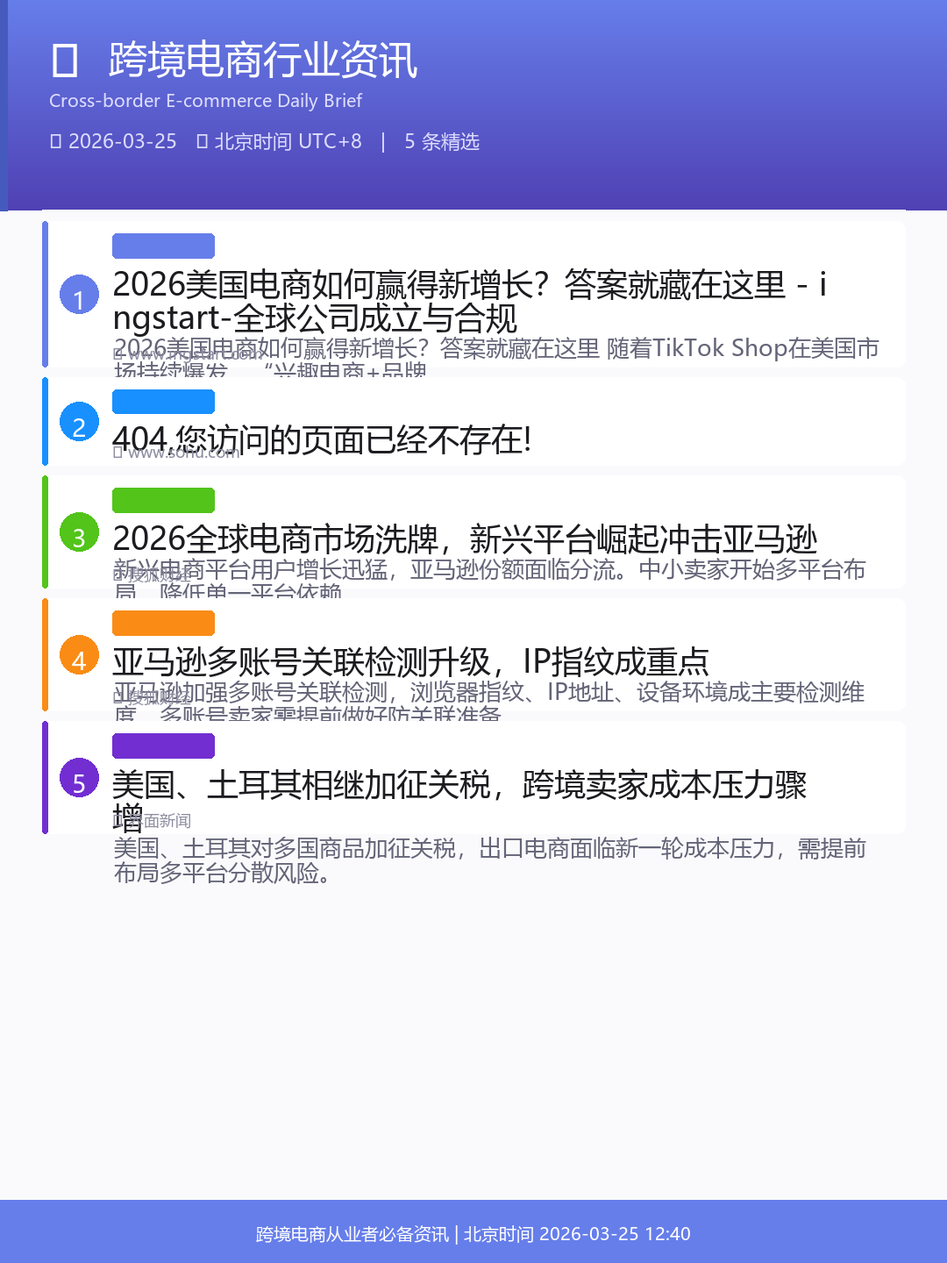
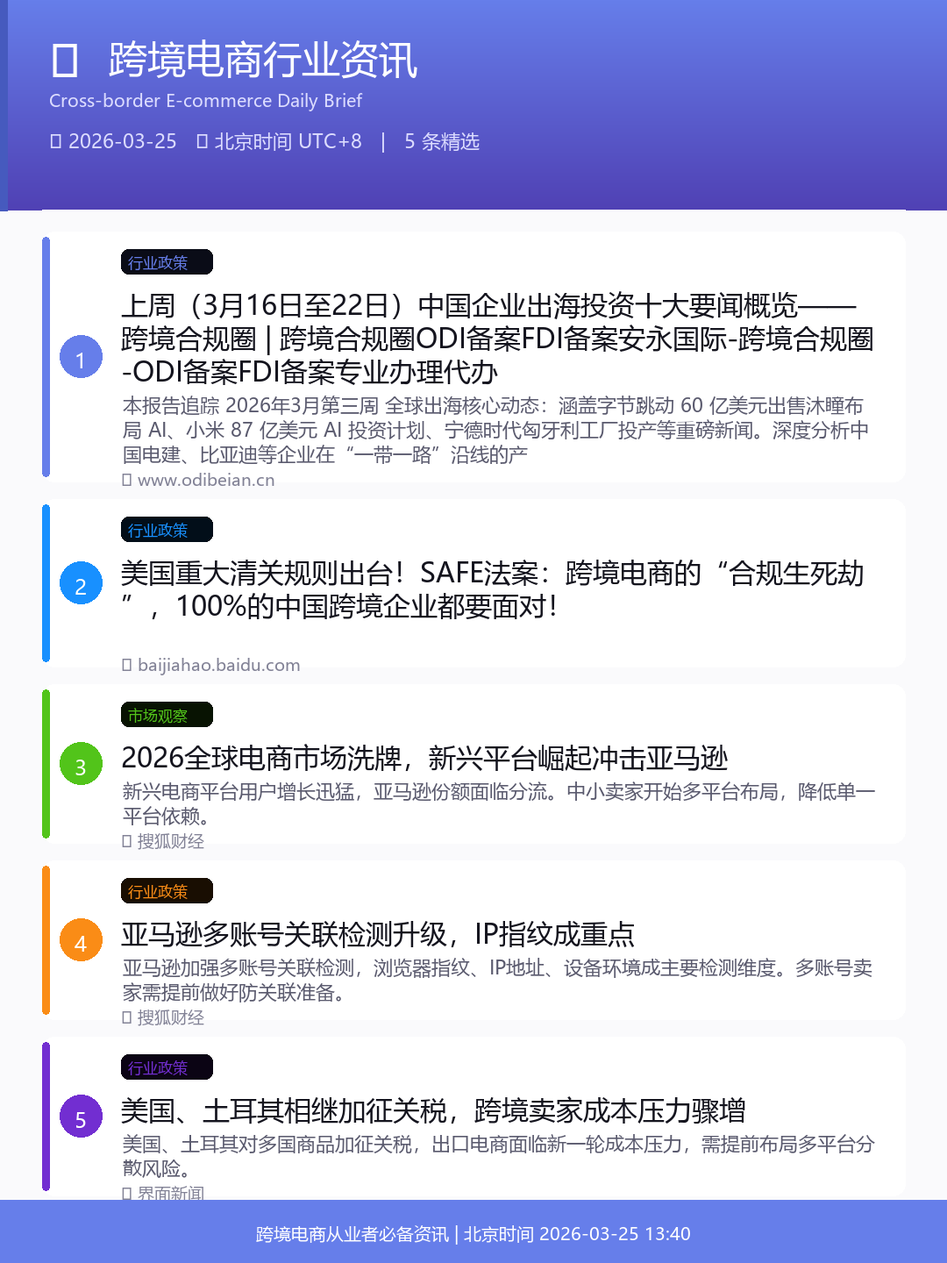
update: 行业简报 2026-03-25 13:40 - v5双版

Changed region(s): [[0.0306, 0.1875, 0.9472, 0.9688]]

diff --git a/资讯/index.html b/资讯/index.html
@@ -2,162 +2,148 @@
 <html>
 <head>
 <meta charset="UTF-8">
-<meta name="viewport" content="width=device-width, initial-scale=1.0">
-<title>📰 行业资讯</title>
+<meta name="viewport" content="width=device-width,initial-scale=1.0">
+<title>行业资讯</title>
 <style>
-  * { margin: 0; padding: 0; box-sizing: border-box; }
-  body { font-family: -apple-system, BlinkMacSystemFont, 'Segoe UI', Roboto, sans-serif; background: #f0f2f5; }
-  .header { background: linear-gradient(135deg, #667eea 0%, #764ba2 100%); color: white; padding: 20px 40px; display: flex; justify-content: space-between; align-items: center; flex-wrap: wrap; gap: 10px; }
-  .header h1 { font-size: 22px; }
-  .header a { color: white; text-decoration: none; font-size: 14px; }
-  .header .last-check { font-size: 12px; opacity: 0.8; }
-  .container { max-width: 1100px; margin: 0 auto; padding: 30px 40px; }
-
-  /* 简报图片卡片 */
-  .poster-card { margin-bottom: 25px; }
-  .poster-card-inner { background: white; border-radius: 16px; padding: 24px 28px; box-shadow: 0 4px 16px rgba(0,0,0,0.1); display: flex; align-items: center; gap: 20px; cursor: pointer; border: 2px solid transparent; transition: all 0.25s; }
-  .poster-card-inner:hover { border-color: #667eea; transform: translateY(-3px); box-shadow: 0 10px 30px rgba(102,126,234,0.2); }
-  .poster-icon { width: 64px; height: 64px; background: linear-gradient(135deg, #667eea, #764ba2); border-radius: 14px; display: flex; align-items: center; justify-content: center; font-size: 30px; flex-shrink: 0; }
-  .poster-info { flex: 1; }
-  .poster-title { font-size: 17px; font-weight: 700; color: #222; margin-bottom: 5px; }
-  .poster-desc { font-size: 13px; color: #666; }
-  .poster-right { display: flex; align-items: center; gap: 15px; }
-  .poster-tag { background: linear-gradient(135deg, #667eea, #764ba2); color: white; font-size: 12px; padding: 6px 14px; border-radius: 20px; white-space: nowrap; font-weight: 600; }
-  .poster-arrow { font-size: 22px; color: #667eea; }
-
-  /* 简报正文 */
-  .brief-card { background: white; border-radius: 16px; padding: 28px 32px; box-shadow: 0 4px 16px rgba(0,0,0,0.08); margin-bottom: 25px; }
-  .brief-header { display: flex; justify-content: space-between; align-items: center; margin-bottom: 24px; padding-bottom: 16px; border-bottom: 2px solid #f0f0f5; flex-wrap: wrap; gap: 8px; }
-  .brief-header-title { font-size: 18px; font-weight: 700; color: #222; }
-  .brief-header-meta { font-size: 12px; color: #999; }
-  .brief-header-badge { background: #52c41a; color: white; font-size: 11px; padding: 3px 10px; border-radius: 10px; margin-left: 10px; }
-  .brief-item { display: flex; gap: 16px; padding: 18px 0; border-bottom: 1px solid #f5f5f5; }
-  .brief-item:last-child { border-bottom: none; padding-bottom: 0; }
-  .brief-num { width: 28px; height: 28px; background: linear-gradient(135deg, #667eea, #764ba2); color: white; border-radius: 50%; font-size: 13px; font-weight: 700; display: flex; align-items: center; justify-content: center; flex-shrink: 0; margin-top: 3px; }
-  .brief-content { flex: 1; }
-  .brief-content .tag { display: inline-block; padding: 2px 8px; border-radius: 4px; font-size: 11px; margin-bottom: 6px; }
-  .brief-content .tag-blue { background: #e6f7ff; color: #1890ff; }
-  .brief-content .tag-green { background: #f6ffed; color: #52c41a; }
-  .brief-content .tag-orange { background: #fff7e6; color: #fa8c16; }
-  .brief-content .tag-purple { background: #f9f0ff; color: #722ed1; }
-  .brief-title { font-size: 15px; font-weight: 600; color: #222; margin-bottom: 6px; line-height: 1.5; }
-  .brief-title a { color: #222; text-decoration: none; }
-  .brief-title a:hover { color: #667eea; }
-  .brief-desc { font-size: 13px; color: #555; line-height: 1.7; margin-bottom: 6px; }
-  .brief-source { font-size: 12px; color: #999; }
-  .brief-link a { color: #667eea; text-decoration: none; }
-  .brief-link a:hover { text-decoration: underline; }
-
-  /* 弹窗 */
-  .modal-overlay { display: none; position: fixed; top: 0; left: 0; right: 0; bottom: 0; background: rgba(0,0,0,0.88); z-index: 9999; align-items: center; justify-content: center; padding: 20px; }
-  .modal-overlay.show { display: flex; }
-  .modal-close { position: fixed; top: 20px; right: 30px; color: white; font-size: 32px; cursor: pointer; z-index: 10001; background: rgba(255,255,255,0.15); width: 44px; height: 44px; border-radius: 50%; text-align: center; line-height: 44px; }
-  .modal-close:hover { background: rgba(255,255,255,0.3); }
-  .modal-img-wrap { max-width: 95vw; max-height: 90vh; display: flex; align-items: center; justify-content: center; }
-  .modal-img-wrap img { max-width: 100%; max-height: 88vh; border-radius: 12px; box-shadow: 0 24px 80px rgba(0,0,0,0.6); }
-  .modal-save { position: fixed; bottom: 30px; right: 30px; z-index: 10001; }
-  .modal-save a { display: inline-block; background: white; color: #667eea; padding: 12px 24px; border-radius: 25px; font-size: 14px; font-weight: 700; text-decoration: none; box-shadow: 0 4px 16px rgba(0,0,0,0.3); }
-  .modal-save a:hover { transform: scale(1.05); }
-  .modal-tip { position: fixed; bottom: 30px; left: 50%; transform: translateX(-50%); color: rgba(255,255,255,0.5); font-size: 12px; z-index: 10001; }
+*{margin:0;padding:0;box-sizing:border-box}
+body{font-family:-apple-system,BlinkMacSystemFont,"Segoe UI",Roboto,sans-serif;background:#f0f2f5;color:#1a1a2e;line-height:1.6}
+a{color:#667eea;text-decoration:none}
+.pk{position:fixed;top:16px;right:16px;z-index:200;background:linear-gradient(135deg,#667eea,#764ba2);color:#fff;border:none;padding:10px 18px;border-radius:25px;font-size:13px;font-weight:700;cursor:pointer;box-shadow:0 4px 16px rgba(102,126,234,.35)}
+.pk:hover{transform:scale(1.04)}
+.hdr{background:linear-gradient(135deg,#667eea 0%,#764ba2 100%);padding:20px 24px 16px;color:#fff}
+.hdr h1{font-size:20px;font-weight:800;letter-spacing:-.5px}
+.hdr p{font-size:12px;color:rgba(255,255,255,.75);margin-top:2px}
+.hdr .tm{font-size:11px;color:rgba(255,255,255,.6);margin-top:4px}
+.bar{display:flex;gap:8px;padding:12px 16px;background:#fff;border-bottom:1px solid #e8e9f0;overflow-x:auto;white-space:nowrap}
+.bar a{display:inline-block;padding:6px 14px;background:#f4f5f9;border-radius:20px;font-size:12px;font-weight:600;color:#4a4a6a;transition:all .2s}
+.bar a:hover,.bar a.active{background:#667eea;color:#fff}
+.main{max-width:720px;margin:0 auto;padding:12px 16px 80px}
+.sec{margin-bottom:16px}
+.sec-h{font-size:12px;font-weight:700;color:#9090a0;text-transform:uppercase;letter-spacing:.5px;padding:8px 0 6px;border-bottom:1px solid #e8e9f0;margin-bottom:8px;display:flex;align-items:center;gap:6px}
+.sec-h span{background:#667eea;color:#fff;font-size:10px;padding:1px 6px;border-radius:8px}
+.curB{background:#22c55e!important}
+.nl{list-style:none;background:#fff;border-radius:12px;overflow:hidden;box-shadow:0 1px 3px rgba(0,0,0,.06)}
+.ni{display:flex;gap:14px;padding:14px 16px;border-bottom:1px solid #f0f2f5;align-items:flex-start}
+.ni:last-child{border-bottom:none}
+.nb{width:26px;height:26px;background:linear-gradient(135deg,#667eea,#764ba2);color:#fff;border-radius:50%;font-size:11px;font-weight:700;display:flex;align-items:center;justify-content:center;flex-shrink:0;margin-top:2px}
+.nc{flex:1;min-width:0}
+.nm{margin-bottom:4px}
+.tag{display:inline-block;padding:1px 8px;border-radius:6px;font-size:10px;font-weight:700}
+.tagR{background:#fff1f0;color:#cf1322}
+.tagO{background:#fff7e6;color:#d46b08}
+.tagB{background:#e6f7ff;color:#0958d9}
+.tagV{background:#f9f0ff;color:#722ed1}
+.tagG{background:#f6ffed;color:#389e0d}
+.tagGr{background:#f5f5f5;color:#595959}
+.nt{font-size:14px;font-weight:600;color:#1a1a2e;line-height:1.4;margin-bottom:3px}
+.nt a{color:inherit}
+.nd{font-size:12px;color:#6b6b80;line-height:1.5}
+.ns{font-size:11px;color:#9090a0;margin-top:4px}
+.nlk{color:#667eea;font-weight:600}
+.tl{width:100%;border-collapse:collapse;background:#fff;border-radius:12px;overflow:hidden;box-shadow:0 1px 3px rgba(0,0,0,.06)}
+.tl th{font-size:11px;color:#9090a0;font-weight:600;text-align:left;padding:10px 12px;background:#f8f9fb;border-bottom:1px solid #e8e9f0;text-transform:uppercase}
+.tl td{padding:10px 12px;font-size:12px;border-bottom:1px solid #f0f2f5;vertical-align:middle}
+.tl tr:last-child td{border-bottom:none}
+.tc{color:#667eea;font-weight:700;white-space:nowrap}
+.ti{color:#6b6b80;max-width:180px;overflow:hidden;text-overflow:ellipsis;white-space:nowrap}
+.bv{padding:5px 12px;background:#667eea;color:#fff;border:none;border-radius:8px;font-size:11px;font-weight:600;cursor:pointer}
+.bv:hover{background:#764ba2}
+.bcur{background:#22c55e}
+.bcur:hover{background:#16a34a}
+.empty{text-align:center;padding:28px;color:#9090a0;font-size:13px}
+.dg{margin-bottom:20px}
+.dl{font-size:13px;font-weight:700;color:#1a1a2e;padding:8px 0 6px;border-bottom:2px solid #667eea;margin-bottom:6px}
+.dg .tl{border-radius:8px}
+.ov{position:fixed;top:0;left:0;right:0;bottom:0;background:rgba(0,0,0,.6);z-index:300;display:none;align-items:center;justify-content:center;padding:16px}
+.ov.on{display:flex}
+.ovbox{background:#fff;border-radius:16px;width:100%;max-width:680px;max-height:85vh;overflow-y:auto;box-shadow:0 24px 80px rgba(0,0,0,.25)}
+.ovhd{display:flex;justify-content:space-between;align-items:center;padding:16px 20px;border-bottom:1px solid #e8e9f0;position:sticky;top:0;background:#fff;border-radius:16px 16px 0 0}
+.ovtt{font-size:15px;font-weight:700;color:#1a1a2e}
+.ovcls{padding:6px 14px;background:#f4f5f9;border:none;border-radius:8px;font-size:12px;font-weight:600;cursor:pointer}
+.ovbd{padding:16px}
+.dlbtn{position:fixed;bottom:24px;right:16px;background:linear-gradient(135deg,#667eea,#764ba2);color:#fff;padding:12px 20px;border-radius:25px;font-size:13px;font-weight:700;text-decoration:none;box-shadow:0 4px 20px rgba(102,126,234,.4);z-index:100;display:flex;align-items:center;gap:6px}
+.dlbtn:hover{transform:scale(1.04)}
 </style>
 </head>
 <body>
-<div class="header">
+<button class="pk" onclick="document.getElementById('ov').classList.toggle('on')">🖼 预览图片</button>
+
+<div class="hdr">
   <h1>📰 行业资讯</h1>
-  <div>
-    <span class="last-check">🕒 北京时间 (UTC+8) | 2026-03-25 13:02</span>
-    <a href="../index.html" style="margin-left:15px;">← 返回首页</a>
-  </div>
+  <p>跨境电商每日简报 · 精选 5 条</p>
+  <div class="tm">🕒 2026-03-25 13:40 · 北京时间 UTC+8</div>
 </div>
-<div class="container">
-  <!-- 简报图片卡片 -->
-  <div class="poster-card">
-    <div class="poster-card-inner" onclick="openPosterModal()">
-      <div class="poster-icon">🖼</div>
-      <div class="poster-info">
-        <div class="poster-title">📰 今日简报图片</div>
-        <div class="poster-desc">点击预览完整简报，支持右键/长按保存图片</div>
-      </div>
-      <div class="poster-right">
-        <span class="poster-tag">🕒 2026-03-25</span>
-        <span class="poster-arrow">→</span>
-      </div>
+
+<div class="bar">
+  <a href="#" class="active" id="tabA0" onclick="switchTab(0);return false">📋 当前版本</a>
+  <a href="#" id="tabA1" onclick="switchTab(1);return false">🕐 今日历史</a>
+  <a href="历史.html">📁 历史存档</a>
+</div>
+
+<div class="main">
+  <div id="tab0">
+    <div class="sec">
+      <div class="sec-h">🖼 对外简报 <span>朋友圈</span> <span class="curB">13:00</span></div>
+      <ul class="nl"><li class="ni"><div class="nb">1</div><div class="nc"><div class="nm"><span class="tag tagR">行业政策</span></div><div class="nt"><a href="https://www.odibeian.cn/market-intelligence-china-outbound-investment-weekly-march-2026/" target="_blank">上周（3月16日至22日）中国企业出海投资十大要闻概览——跨境合规圈 | 跨境合规圈ODI备案FDI备案安永国际-跨境合规圈-ODI备案FDI备案专业办理代办</a></div><div class="nd">本报告追踪 2026年3月第三周 全球出海核心动态：涵盖字节跳动 60 亿美元出售沐瞳布局 AI、小米 87 亿美元 AI 投资计划、宁德时代匈牙利工厂投产等重磅新闻。深度分析中国电建、比亚迪等企业在“一带一路”沿线的产能与品牌出海路径，并为投资者提供 ODI 备案与跨境合规的实务闭环建议。</div></div></li><li class="ni"><div class="nb">2</div><div class="nc"><div class="nm"><span class="tag tagR">行业政策</span></div><div class="nt"><a href="https://baijiahao.baidu.com/s?id=1859959027147065180" target="_blank">美国重大清关规则出台！SAFE法案：跨境电商的“合规生死劫”，100%的中国跨境企业都要面对！</a></div><div class="nd"></div></div></li><li class="ni"><div class="nb">3</div><div class="nc"><div class="nm"><span class="tag tagO">市场观察</span></div><div class="nt"><a href="https://www.sohu.com/a/996154720_122656378" target="_blank">2026全球电商市场洗牌，新兴平台崛起冲击亚马逊</a></div><div class="nd">新兴电商平台用户增长迅猛，亚马逊份额面临分流。中小卖家开始多平台布局，降低单一平台依赖。</div></div></li></ul>
+    </div>
+    <div class="sec">
+      <div class="sec-h">📊 对内全模块 <span>5条</span></div>
+      <ul class="nl"><li class="ni"><div class="nb">1</div><div class="nc"><div class="nm"><span class="tag tagR">行业政策</span></div><div class="nt"><a href="https://www.odibeian.cn/market-intelligence-china-outbound-investment-weekly-march-2026/" target="_blank">上周（3月16日至22日）中国企业出海投资十大要闻概览——跨境合规圈 | 跨境合规圈ODI备案FDI备案安永国际-跨境合规圈-ODI备案FDI备案专业办理代办</a></div><div class="nd">本报告追踪 2026年3月第三周 全球出海核心动态：涵盖字节跳动 60 亿美元出售沐瞳布局 AI、小米 87 亿美元 AI 投资计划、宁德时代匈牙利工厂投产等重磅新闻。深度分析中国电建、比亚迪等企业在“一带一路”沿线的产能与品牌出海路径，并为投资者提供 ODI 备案与跨境合规的实务闭环建议。</div><div class="ns">&#128214; <a href="https://www.odibeian.cn/market-intelligence-china-outbound-investment-weekly-march-2026/" target="_blank">www.odibeian.cn</a> <a class="nlk" href="https://www.odibeian.cn/market-intelligence-china-outbound-investment-weekly-march-2026/" target="_blank">&#8594;</a></div></div></li><li class="ni"><div class="nb">2</div><div class="nc"><div class="nm"><span class="tag tagR">行业政策</span></div><div class="nt"><a href="https://baijiahao.baidu.com/s?id=1859959027147065180" target="_blank">美国重大清关规则出台！SAFE法案：跨境电商的“合规生死劫”，100%的中国跨境企业都要面对！</a></div><div class="nd"></div><div class="ns">&#128214; <a href="https://baijiahao.baidu.com/s?id=1859959027147065180" target="_blank">baijiahao.baidu.com</a> <a class="nlk" href="https://baijiahao.baidu.com/s?id=1859959027147065180" target="_blank">&#8594;</a></div></div></li><li class="ni"><div class="nb">3</div><div class="nc"><div class="nm"><span class="tag tagO">市场观察</span></div><div class="nt"><a href="https://www.sohu.com/a/996154720_122656378" target="_blank">2026全球电商市场洗牌，新兴平台崛起冲击亚马逊</a></div><div class="nd">新兴电商平台用户增长迅猛，亚马逊份额面临分流。中小卖家开始多平台布局，降低单一平台依赖。</div><div class="ns">&#128214; <a href="https://www.sohu.com/a/996154720_122656378" target="_blank">搜狐财经</a> <a class="nlk" href="https://www.sohu.com/a/996154720_122656378" target="_blank">&#8594;</a></div></div></li><li class="ni"><div class="nb">4</div><div class="nc"><div class="nm"><span class="tag tagR">行业政策</span></div><div class="nt"><a href="https://www.sohu.com/a/998377667_120987862" target="_blank">亚马逊多账号关联检测升级，IP指纹成重点</a></div><div class="nd">亚马逊加强多账号关联检测，浏览器指纹、IP地址、设备环境成主要检测维度。多账号卖家需提前做好防关联准备。</div><div class="ns">&#128214; <a href="https://www.sohu.com/a/998377667_120987862" target="_blank">搜狐财经</a> <a class="nlk" href="https://www.sohu.com/a/998377667_120987862" target="_blank">&#8594;</a></div></div></li><li class="ni"><div class="nb">5</div><div class="nc"><div class="nm"><span class="tag tagR">行业政策</span></div><div class="nt"><a href="https://www.jiemian.com/article/14129901.html" target="_blank">美国、土耳其相继加征关税，跨境卖家成本压力骤增</a></div><div class="nd">美国、土耳其对多国商品加征关税，出口电商面临新一轮成本压力，需提前布局多平台分散风险。</div><div class="ns">&#128214; <a href="https://www.jiemian.com/article/14129901.html" target="_blank">界面新闻</a> <a class="nlk" href="https://www.jiemian.com/article/14129901.html" target="_blank">&#8594;</a></div></div></li></ul>
     </div>
   </div>
-
-  <!-- 简报正文（5条合并） -->
-  <div class="brief-card">
-    <div class="brief-header">
-      <div class="brief-header-title">📋 今日要闻 · 2026-03-25 <span class="brief-header-badge">共 5 条</span></div>
-      <div class="brief-header-meta">🕒 更新于 2026-03-25 13:02 · 每整点自动更新</div>
+  <div id="tab1" style="display:none">
+    <div class="sec">
+      <div class="sec-h">🕐 今日历史版本 <span>2026-03-25</span></div>
+      <table class="tl"><thead><tr><th>时间</th><th>条数</th><th>首条</th><th></th></tr></thead><tbody><tr><td class="tc"><em class="cur">13:00</em></td><td class="ti">8条</td><td class="ti">上周（3月16日至22日）中国企业出海投资十大要闻概览——跨...</td><td><button class="bv" onclick="showSnap('13')">当前</button></td></tr><tr><td class="tc"><b>12:00</b></td><td class="ti">8条</td><td class="ti">2026美国电商如何赢得新增长？答案就藏在这里 - ings...</td><td><button class="bv" onclick="showSnap('12')">查看</button></td></tr></tbody></table>
     </div>
-    
-      <div class="brief-item">
-        <div class="brief-num">1</div>
-        <div class="brief-content">
-          <span class="tag tag-green">社媒电商</span>
-          <div class="brief-title"><a href="https://www.sohu.com/a/998791727_122656378" target="_blank">2026年TikTok Shop大促掘金指南：从报名选品到复盘流量，商家必读的实战攻略_平台_活动_商品</a></div>
-          <div class="brief-desc">本文将从科普角度，结合2026年最新的平台动态，为你全方位拆解TikTok Shop的大促活动、攻略、补贴、报名、选品、玩法、准备、流量及复盘等核心环节，无论你是初入局的新手，还是经验丰富的自运营（POP）…</div>
-          <div class="brief-source">📌 www.sohu.com <span class="brief-link">→ <a href="https://www.sohu.com/a/998791727_122656378" target="_blank">阅读原文</a></span></div>
-        </div>
-      </div>
-      <div class="brief-item">
-        <div class="brief-num">2</div>
-        <div class="brief-content">
-          <span class="tag tag-green">社媒电商</span>
-          <div class="brief-title"><a href="https://www.sohu.com/a/998337896_122656378" target="_blank">2026年TikTok Shop入驻全解析：从流程到补贴，一篇看懂“开店的正确姿势”_托管_模式_运营</a></div>
-          <div class="brief-desc">然而，面对多元化的站点（如欧盟、日本、墨西哥新站）和多层次的经营模式（POP自运营、全托管、品牌/本地托管），许多新手卖家往往感到困惑：现在入驻到底难不难？特别注意的是，个体工商户目前可以入驻东南亚的POP…</div>
-          <div class="brief-source">📌 www.sohu.com <span class="brief-link">→ <a href="https://www.sohu.com/a/998337896_122656378" target="_blank">阅读原文</a></span></div>
-        </div>
-      </div>
-      <div class="brief-item">
-        <div class="brief-num">3</div>
-        <div class="brief-content">
-          <span class="tag tag-blue">电商平台</span>
-          <div class="brief-title"><a href="https://www.163.com/dy/article/IP7C9S5I0538AT1N.html" target="_blank">《2023跨境电商行业年度报告》重磅发布！|卖家|黑五|亚马逊|电商平台_网易订阅</a></div>
-          <div class="brief-desc">《2023跨境电商行业年度报告》重磅发布！,卖家,黑五,亚马逊,电商平台,2023跨境电商行业年度报告</div>
-          <div class="brief-source">📌 www.163.com <span class="brief-link">→ <a href="https://www.163.com/dy/article/IP7C9S5I0538AT1N.html" target="_blank">阅读原文</a></span></div>
-        </div>
-      </div>
-      <div class="brief-item">
-        <div class="brief-num">4</div>
-        <div class="brief-content">
-          <span class="tag tag-green">社媒电商</span>
-          <div class="brief-title"><a href="https://www.163.com/dy/article/JLQD48HA05199NPP.html" target="_blank">TikTok Shop助力中国企业全球出海的新模式值得关注|陈阳|shop|tiktok_网易订阅</a></div>
-          <div class="brief-desc">TikTok Shop助力中国企业全球出海的新模式值得关注,中国,陈阳,shop,全球出海,tiktok</div>
-          <div class="brief-source">📌 www.163.com <span class="brief-link">→ <a href="https://www.163.com/dy/article/JLQD48HA05199NPP.html" target="_blank">阅读原文</a></span></div>
-        </div>
-      </div>
-      <div class="brief-item">
-        <div class="brief-num">5</div>
-        <div class="brief-content">
-          <span class="tag tag-blue">电商平台</span>
-          <div class="brief-title"><a href="https://www.jiemian.com/article/11336895.html" target="_blank">正面迎战Temu和SHEIN，亚马逊也要开低价商店了|界面新闻 · 科技</a></div>
-          <div class="brief-desc">亚马逊在深圳向部分卖家透露了“低价商店”新项目，迅速引起业界关注。</div>
-          <div class="brief-source">📌 www.jiemian.com <span class="brief-link">→ <a href="https://www.jiemian.com/article/11336895.html" target="_blank">阅读原文</a></span></div>
-        </div>
-      </div>
   </div>
 </div>
 
-<!-- 简报图片弹窗 -->
-<div class="modal-overlay" id="posterModal">
-  <div class="modal-close" onclick="closePosterModal()">×</div>
-  <div class="modal-img-wrap">
-    <img src="https://dwightmulkin-beep.github.io/conan-daily-report/%E8%B5%84%E8%AE%AF/%E7%AE%80%E6%8A%A5.png" alt="今日简报" id="posterImg">
+<div class="ov" id="ov" onclick="if(event.target===this)this.classList.remove('on')">
+  <div class="ovbox">
+    <div class="ovhd">
+      <div class="ovtt" id="svT">--:--</div>
+      <button class="ovcls" onclick="document.getElementById('ov').classList.remove('on')">关闭</button>
+    </div>
+    <div class="ovbd"><div id="svB"></div></div>
   </div>
-  <div class="modal-save">
-    <a href="https://dwightmulkin-beep.github.io/conan-daily-report/%E8%B5%84%E8%AE%AF/%E7%AE%80%E6%8A%A5.png" download="行业简报_2026-03-25.png">⬇ 保存图片</a>
-  </div>
-  <div class="modal-tip">点击 × 或按 ESC 关闭</div>
 </div>
 
+<a class="dlbtn" href="https://dwightmulkin-beep.github.io/conan-daily-report/%E8%B5%84%E8%AE%AF/%E7%AE%80%E6%8A%A5.png" download="行业简报_2026-03-25_13h.png">⬇ 保存图片</a>
+
+<script type="application/json" id="sd">{"2026-03-25": {"12": {"articles": [{"tag": "行业政策", "title": "2026美国电商如何赢得新增长？答案就藏在这里 - ingstart-全球公司成立与合规", "desc": "2026美国电商如何赢得新增长？答案就藏在这里 随着TikTok Shop在美国市场持续爆发，“兴趣电商+品牌", "date": "2026-03-25", "hour": "12", "url": "https://www.ingstart.com/blog/45558.html", "source": "www.ingstart.com", "is_new": true, "for_outer": true, "score": 5}, {"tag": "市场观察", "title": "2026全球电商市场洗牌，新兴平台崛起冲击亚马逊", "desc": "新兴电商平台用户增长迅猛，亚马逊份额面临分流。中小卖家开始多平台布局，降低单一平台依赖。", "url": "https://www.sohu.com/a/996154720_122656378", "source": "搜狐财经", "for_outer": true, "is_new": false, "hour": "12", "score": 5}, {"tag": "行业政策", "title": "亚马逊多账号关联检测升级，IP指纹成重点", "desc": "亚马逊加强多账号关联检测，浏览器指纹、IP地址、设备环境成主要检测维度。多账号卖家需提前做好防关联准备。", "url": "https://www.sohu.com/a/998377667_120987862", "source": "搜狐财经", "for_outer": true, "is_new": false, "hour": "12", "score": 2}, {"tag": "行业政策", "title": "2026美国电商如何赢得新增长？答案就藏在这里 - ingstart-全球公司成立与合规", "desc": "2026美国电商如何赢得新增长？答案就藏在这里 随着TikTok Shop在美国市场持续爆发，“兴趣电商+品牌", "date": "2026-03-25", "hour": "12", "url": "https://www.ingstart.com/blog/45558.html", "source": "www.ingstart.com", "is_new": true, "for_outer": true, "score": 5}, {"tag": "运营技巧", "title": "404,您访问的页面已经不存在!", "desc": "", "date": "2026-03-25", "hour": "12", "url": "https://www.sohu.com/a/998487508_122647688", "source": "www.sohu.com", "is_new": true, "for_outer": false, "score": 0}, {"tag": "市场观察", "title": "2026全球电商市场洗牌，新兴平台崛起冲击亚马逊", "desc": "新兴电商平台用户增长迅猛，亚马逊份额面临分流。中小卖家开始多平台布局，降低单一平台依赖。", "url": "https://www.sohu.com/a/996154720_122656378", "source": "搜狐财经", "for_outer": true, "is_new": false, "hour": "12", "score": 5}, {"tag": "行业政策", "title": "亚马逊多账号关联检测升级，IP指纹成重点", "desc": "亚马逊加强多账号关联检测，浏览器指纹、IP地址、设备环境成主要检测维度。多账号卖家需提前做好防关联准备。", "url": "https://www.sohu.com/a/998377667_120987862", "source": "搜狐财经", "for_outer": true, "is_new": false, "hour": "12", "score": 2}, {"tag": "行业政策", "title": "美国、土耳其相继加征关税，跨境卖家成本压力骤增", "desc": "美国、土耳其对多国商品加征关税，出口电商面临新一轮成本压力，需提前布局多平台分散风险。", "url": "https://www.jiemian.com/article/14129901.html", "source": "界面新闻", "for_outer": true, "is_new": false, "hour": "12", "score": 2}], "updated": "2026-03-25 12:40"}, "13": {"articles": [{"tag": "行业政策", "title": "上周（3月16日至22日）中国企业出海投资十大要闻概览——跨境合规圈 | 跨境合规圈ODI备案FDI备案安永国际-跨境合规圈-ODI备案FDI备案专业办理代办", "desc": "本报告追踪 2026年3月第三周 全球出海核心动态：涵盖字节跳动 60 亿美元出售沐瞳布局 AI、小米 87 亿美元 AI 投资计划、宁德时代匈牙利工厂投产等重磅新闻。深度分析中国电建、比亚迪等企业在“一带一路”沿线的产能与品牌出海路径，并为投资者提供 ODI 备案与跨境合规的实务闭环建议。", "date": "2026-03-25", "hour": "13", "url": "https://www.odibeian.cn/market-intelligence-china-outbound-investment-weekly-march-2026/", "source": "www.odibeian.cn", "is_new": true, "for_outer": true, "score": 3}, {"tag": "行业政策", "title": "美国重大清关规则出台！SAFE法案：跨境电商的“合规生死劫”，100%的中国跨境企业都要面对！", "desc": "", "date": "2026-03-25", "hour": "13", "url": "https://baijiahao.baidu.com/s?id=1859959027147065180", "source": "baijiahao.baidu.com", "is_new": true, "for_outer": true, "score": 0}, {"tag": "市场观察", "title": "2026全球电商市场洗牌，新兴平台崛起冲击亚马逊", "desc": "新兴电商平台用户增长迅猛，亚马逊份额面临分流。中小卖家开始多平台布局，降低单一平台依赖。", "url": "https://www.sohu.com/a/996154720_122656378", "source": "搜狐财经", "for_outer": true, "is_new": false, "hour": "13", "score": 5}, {"tag": "行业政策", "title": "上周（3月16日至22日）中国企业出海投资十大要闻概览——跨境合规圈 | 跨境合规圈ODI备案FDI备案安永国际-跨境合规圈-ODI备案FDI备案专业办理代办", "desc": "本报告追踪 2026年3月第三周 全球出海核心动态：涵盖字节跳动 60 亿美元出售沐瞳布局 AI、小米 87 亿美元 AI 投资计划、宁德时代匈牙利工厂投产等重磅新闻。深度分析中国电建、比亚迪等企业在“一带一路”沿线的产能与品牌出海路径，并为投资者提供 ODI 备案与跨境合规的实务闭环建议。", "date": "2026-03-25", "hour": "13", "url": "https://www.odibeian.cn/market-intelligence-china-outbound-investment-weekly-march-2026/", "source": "www.odibeian.cn", "is_new": true, "for_outer": true, "score": 3}, {"tag": "行业政策", "title": "美国重大清关规则出台！SAFE法案：跨境电商的“合规生死劫”，100%的中国跨境企业都要面对！", "desc": "", "date": "2026-03-25", "hour": "13", "url": "https://baijiahao.baidu.com/s?id=1859959027147065180", "source": "baijiahao.baidu.com", "is_new": true, "for_outer": true, "score": 0}, {"tag": "市场观察", "title": "2026全球电商市场洗牌，新兴平台崛起冲击亚马逊", "desc": "新兴电商平台用户增长迅猛，亚马逊份额面临分流。中小卖家开始多平台布局，降低单一平台依赖。", "url": "https://www.sohu.com/a/996154720_122656378", "source": "搜狐财经", "for_outer": true, "is_new": false, "hour": "13", "score": 5}, {"tag": "行业政策", "title": "亚马逊多账号关联检测升级，IP指纹成重点", "desc": "亚马逊加强多账号关联检测，浏览器指纹、IP地址、设备环境成主要检测维度。多账号卖家需提前做好防关联准备。", "url": "https://www.sohu.com/a/998377667_120987862", "source": "搜狐财经", "for_outer": true, "is_new": false, "hour": "13", "score": 2}, {"tag": "行业政策", "title": "美国、土耳其相继加征关税，跨境卖家成本压力骤增", "desc": "美国、土耳其对多国商品加征关税，出口电商面临新一轮成本压力，需提前布局多平台分散风险。", "url": "https://www.jiemian.com/article/14129901.html", "source": "界面新闻", "for_outer": true, "is_new": false, "hour": "13", "score": 2}], "updated": "2026-03-25 13:40"}}}</script>
 <script>
-var modal = document.getElementById('posterModal');
-function openPosterModal() { modal.classList.add('show'); document.body.style.overflow = 'hidden'; }
-function closePosterModal() { modal.classList.remove('show'); document.body.style.overflow = ''; }
-modal.addEventListener('click', function(e) { if (e.target === modal) closePosterModal(); });
-document.addEventListener('keydown', function(e) { if (e.key === 'Escape') closePosterModal(); });
+var SD=JSON.parse(document.getElementById("sd").textContent||"{}");
+var tabs=document.querySelectorAll('.bar a');
+
+function switchTab(i){
+  document.getElementById('tab0').style.display=i===0?'block':'none';
+  document.getElementById('tab1').style.display=i===1?'block':'none';
+  tabs[0].classList.toggle('active',i===0);
+  tabs[1].classList.toggle('active',i===1);
+}
+
+function showSnap(hr){
+  var TD=SD["2026-03-25"]||{};
+  var sp=TD[hr];if(!sp){alert("数据不存在");return}
+  var arts=sp.articles||[];
+  document.getElementById("svT").textContent="2026-03-25 "+hr+":00 ("+arts.length+"条)";
+  var h='<ul class="nl">';
+  arts.forEach(function(a,i){
+    var cls=a.tag==="\u884c\u4e1a\u653f\u7b56"?"tagR":a.tag==="\u5e02\u573a\u89c2\u5bdf"?"tagO":
+           a.tag==="\u5e73\u53f0\u52a8\u6001"?"tagB":a.tag==="\u5de5\u5177\u8bc4\u6d4b"?"tagV":
+           a.tag==="\u652f\u4ed8\u91d1\u878d"?"tagG":"tagGr";
+    h+='<li class="ni"><div class="nb">'+(i+1)+'</div><div class="nc">'+
+      '<div class="nm"><span class="tag '+cls+'">'+a.tag+'</span></div>'+
+      '<div class="nt"><a href="'+a.url+'" target="_blank">'+a.title+'</a></div>'+
+      '<div class="nd">'+a.desc+'</div>'+
+      '<div class="ns">📌 <a href="'+a.url+'" target="_blank">'+a.source+'</a> <a class="nlk" href="'+a.url+'" target="_blank">→</a></div>'+
+    '</div></li>';
+  });
+  h+='</ul>';
+  document.getElementById("svB").innerHTML=h;
+  document.getElementById("ov").classList.add("on");
+}
 </script>
 </body>
 </html>

diff --git a/资讯/历史.html b/资讯/历史.html
@@ -63,7 +63,7 @@ a{color:#667eea;text-decoration:none}
   <a href="index.html">← 今日简报</a>
   <a href="#" class="active">📁 全部历史</a>
 </div>
-<div class="main" id="dgList"><div class="dg"><div class="dl">2026-03-25 周二</div><table class="tl"><thead><tr><th>时间</th><th>条数</th><th>首条</th><th>标签</th><th></th></tr></thead><tbody><tr><td class="tc"><b>12:00</b></td><td class="ti">8条</td><td class="ti">2026美国电商如何赢得新增长？答案就藏在这里 - in...</td><td><span class="mt">行业政策</span> <span class="mt">市场观察</span> <span class="mt">行业政策</span></td><td><button class="bv" onclick="loadSnap('2026-03-25','12')">查看</button></td></tr></tbody></table></div></div>
+<div class="main" id="dgList"><div class="dg"><div class="dl">2026-03-25 周二</div><table class="tl"><thead><tr><th>时间</th><th>条数</th><th>首条</th><th>标签</th><th></th></tr></thead><tbody><tr><td class="tc"><b>13:00</b></td><td class="ti">8条</td><td class="ti">上周（3月16日至22日）中国企业出海投资十大要闻概览—...</td><td><span class="mt">行业政策</span> <span class="mt">行业政策</span> <span class="mt">市场观察</span></td><td><button class="bv" onclick="loadSnap('2026-03-25','13')">查看</button></td></tr><tr><td class="tc"><b>12:00</b></td><td class="ti">8条</td><td class="ti">2026美国电商如何赢得新增长？答案就藏在这里 - in...</td><td><span class="mt">行业政策</span> <span class="mt">市场观察</span> <span class="mt">行业政策</span></td><td><button class="bv" onclick="loadSnap('2026-03-25','12')">查看</button></td></tr></tbody></table></div></div>
 
 <div class="ov" id="ov" onclick="if(event.target===this)this.classList.remove('on')">
   <div class="ovbox">
@@ -75,7 +75,7 @@ a{color:#667eea;text-decoration:none}
   </div>
 </div>
 
-<script type="application/json" id="sd">{"2026-03-25": {"12": {"articles": [{"tag": "行业政策", "title": "2026美国电商如何赢得新增长？答案就藏在这里 - ingstart-全球公司成立与合规", "desc": "2026美国电商如何赢得新增长？答案就藏在这里 随着TikTok Shop在美国市场持续爆发，“兴趣电商+品牌", "date": "2026-03-25", "hour": "12", "url": "https://www.ingstart.com/blog/45558.html", "source": "www.ingstart.com", "is_new": true, "for_outer": true, "score": 5}, {"tag": "市场观察", "title": "2026全球电商市场洗牌，新兴平台崛起冲击亚马逊", "desc": "新兴电商平台用户增长迅猛，亚马逊份额面临分流。中小卖家开始多平台布局，降低单一平台依赖。", "url": "https://www.sohu.com/a/996154720_122656378", "source": "搜狐财经", "for_outer": true, "is_new": false, "hour": "12", "score": 5}, {"tag": "行业政策", "title": "亚马逊多账号关联检测升级，IP指纹成重点", "desc": "亚马逊加强多账号关联检测，浏览器指纹、IP地址、设备环境成主要检测维度。多账号卖家需提前做好防关联准备。", "url": "https://www.sohu.com/a/998377667_120987862", "source": "搜狐财经", "for_outer": true, "is_new": false, "hour": "12", "score": 2}, {"tag": "行业政策", "title": "2026美国电商如何赢得新增长？答案就藏在这里 - ingstart-全球公司成立与合规", "desc": "2026美国电商如何赢得新增长？答案就藏在这里 随着TikTok Shop在美国市场持续爆发，“兴趣电商+品牌", "date": "2026-03-25", "hour": "12", "url": "https://www.ingstart.com/blog/45558.html", "source": "www.ingstart.com", "is_new": true, "for_outer": true, "score": 5}, {"tag": "运营技巧", "title": "404,您访问的页面已经不存在!", "desc": "", "date": "2026-03-25", "hour": "12", "url": "https://www.sohu.com/a/998487508_122647688", "source": "www.sohu.com", "is_new": true, "for_outer": false, "score": 0}, {"tag": "市场观察", "title": "2026全球电商市场洗牌，新兴平台崛起冲击亚马逊", "desc": "新兴电商平台用户增长迅猛，亚马逊份额面临分流。中小卖家开始多平台布局，降低单一平台依赖。", "url": "https://www.sohu.com/a/996154720_122656378", "source": "搜狐财经", "for_outer": true, "is_new": false, "hour": "12", "score": 5}, {"tag": "行业政策", "title": "亚马逊多账号关联检测升级，IP指纹成重点", "desc": "亚马逊加强多账号关联检测，浏览器指纹、IP地址、设备环境成主要检测维度。多账号卖家需提前做好防关联准备。", "url": "https://www.sohu.com/a/998377667_120987862", "source": "搜狐财经", "for_outer": true, "is_new": false, "hour": "12", "score": 2}, {"tag": "行业政策", "title": "美国、土耳其相继加征关税，跨境卖家成本压力骤增", "desc": "美国、土耳其对多国商品加征关税，出口电商面临新一轮成本压力，需提前布局多平台分散风险。", "url": "https://www.jiemian.com/article/14129901.html", "source": "界面新闻", "for_outer": true, "is_new": false, "hour": "12", "score": 2}], "updated": "2026-03-25 12:40"}}}</script>
+<script type="application/json" id="sd">{"2026-03-25": {"12": {"articles": [{"tag": "行业政策", "title": "2026美国电商如何赢得新增长？答案就藏在这里 - ingstart-全球公司成立与合规", "desc": "2026美国电商如何赢得新增长？答案就藏在这里 随着TikTok Shop在美国市场持续爆发，“兴趣电商+品牌", "date": "2026-03-25", "hour": "12", "url": "https://www.ingstart.com/blog/45558.html", "source": "www.ingstart.com", "is_new": true, "for_outer": true, "score": 5}, {"tag": "市场观察", "title": "2026全球电商市场洗牌，新兴平台崛起冲击亚马逊", "desc": "新兴电商平台用户增长迅猛，亚马逊份额面临分流。中小卖家开始多平台布局，降低单一平台依赖。", "url": "https://www.sohu.com/a/996154720_122656378", "source": "搜狐财经", "for_outer": true, "is_new": false, "hour": "12", "score": 5}, {"tag": "行业政策", "title": "亚马逊多账号关联检测升级，IP指纹成重点", "desc": "亚马逊加强多账号关联检测，浏览器指纹、IP地址、设备环境成主要检测维度。多账号卖家需提前做好防关联准备。", "url": "https://www.sohu.com/a/998377667_120987862", "source": "搜狐财经", "for_outer": true, "is_new": false, "hour": "12", "score": 2}, {"tag": "行业政策", "title": "2026美国电商如何赢得新增长？答案就藏在这里 - ingstart-全球公司成立与合规", "desc": "2026美国电商如何赢得新增长？答案就藏在这里 随着TikTok Shop在美国市场持续爆发，“兴趣电商+品牌", "date": "2026-03-25", "hour": "12", "url": "https://www.ingstart.com/blog/45558.html", "source": "www.ingstart.com", "is_new": true, "for_outer": true, "score": 5}, {"tag": "运营技巧", "title": "404,您访问的页面已经不存在!", "desc": "", "date": "2026-03-25", "hour": "12", "url": "https://www.sohu.com/a/998487508_122647688", "source": "www.sohu.com", "is_new": true, "for_outer": false, "score": 0}, {"tag": "市场观察", "title": "2026全球电商市场洗牌，新兴平台崛起冲击亚马逊", "desc": "新兴电商平台用户增长迅猛，亚马逊份额面临分流。中小卖家开始多平台布局，降低单一平台依赖。", "url": "https://www.sohu.com/a/996154720_122656378", "source": "搜狐财经", "for_outer": true, "is_new": false, "hour": "12", "score": 5}, {"tag": "行业政策", "title": "亚马逊多账号关联检测升级，IP指纹成重点", "desc": "亚马逊加强多账号关联检测，浏览器指纹、IP地址、设备环境成主要检测维度。多账号卖家需提前做好防关联准备。", "url": "https://www.sohu.com/a/998377667_120987862", "source": "搜狐财经", "for_outer": true, "is_new": false, "hour": "12", "score": 2}, {"tag": "行业政策", "title": "美国、土耳其相继加征关税，跨境卖家成本压力骤增", "desc": "美国、土耳其对多国商品加征关税，出口电商面临新一轮成本压力，需提前布局多平台分散风险。", "url": "https://www.jiemian.com/article/14129901.html", "source": "界面新闻", "for_outer": true, "is_new": false, "hour": "12", "score": 2}], "updated": "2026-03-25 12:40"}, "13": {"articles": [{"tag": "行业政策", "title": "上周（3月16日至22日）中国企业出海投资十大要闻概览——跨境合规圈 | 跨境合规圈ODI备案FDI备案安永国际-跨境合规圈-ODI备案FDI备案专业办理代办", "desc": "本报告追踪 2026年3月第三周 全球出海核心动态：涵盖字节跳动 60 亿美元出售沐瞳布局 AI、小米 87 亿美元 AI 投资计划、宁德时代匈牙利工厂投产等重磅新闻。深度分析中国电建、比亚迪等企业在“一带一路”沿线的产能与品牌出海路径，并为投资者提供 ODI 备案与跨境合规的实务闭环建议。", "date": "2026-03-25", "hour": "13", "url": "https://www.odibeian.cn/market-intelligence-china-outbound-investment-weekly-march-2026/", "source": "www.odibeian.cn", "is_new": true, "for_outer": true, "score": 3}, {"tag": "行业政策", "title": "美国重大清关规则出台！SAFE法案：跨境电商的“合规生死劫”，100%的中国跨境企业都要面对！", "desc": "", "date": "2026-03-25", "hour": "13", "url": "https://baijiahao.baidu.com/s?id=1859959027147065180", "source": "baijiahao.baidu.com", "is_new": true, "for_outer": true, "score": 0}, {"tag": "市场观察", "title": "2026全球电商市场洗牌，新兴平台崛起冲击亚马逊", "desc": "新兴电商平台用户增长迅猛，亚马逊份额面临分流。中小卖家开始多平台布局，降低单一平台依赖。", "url": "https://www.sohu.com/a/996154720_122656378", "source": "搜狐财经", "for_outer": true, "is_new": false, "hour": "13", "score": 5}, {"tag": "行业政策", "title": "上周（3月16日至22日）中国企业出海投资十大要闻概览——跨境合规圈 | 跨境合规圈ODI备案FDI备案安永国际-跨境合规圈-ODI备案FDI备案专业办理代办", "desc": "本报告追踪 2026年3月第三周 全球出海核心动态：涵盖字节跳动 60 亿美元出售沐瞳布局 AI、小米 87 亿美元 AI 投资计划、宁德时代匈牙利工厂投产等重磅新闻。深度分析中国电建、比亚迪等企业在“一带一路”沿线的产能与品牌出海路径，并为投资者提供 ODI 备案与跨境合规的实务闭环建议。", "date": "2026-03-25", "hour": "13", "url": "https://www.odibeian.cn/market-intelligence-china-outbound-investment-weekly-march-2026/", "source": "www.odibeian.cn", "is_new": true, "for_outer": true, "score": 3}, {"tag": "行业政策", "title": "美国重大清关规则出台！SAFE法案：跨境电商的“合规生死劫”，100%的中国跨境企业都要面对！", "desc": "", "date": "2026-03-25", "hour": "13", "url": "https://baijiahao.baidu.com/s?id=1859959027147065180", "source": "baijiahao.baidu.com", "is_new": true, "for_outer": true, "score": 0}, {"tag": "市场观察", "title": "2026全球电商市场洗牌，新兴平台崛起冲击亚马逊", "desc": "新兴电商平台用户增长迅猛，亚马逊份额面临分流。中小卖家开始多平台布局，降低单一平台依赖。", "url": "https://www.sohu.com/a/996154720_122656378", "source": "搜狐财经", "for_outer": true, "is_new": false, "hour": "13", "score": 5}, {"tag": "行业政策", "title": "亚马逊多账号关联检测升级，IP指纹成重点", "desc": "亚马逊加强多账号关联检测，浏览器指纹、IP地址、设备环境成主要检测维度。多账号卖家需提前做好防关联准备。", "url": "https://www.sohu.com/a/998377667_120987862", "source": "搜狐财经", "for_outer": true, "is_new": false, "hour": "13", "score": 2}, {"tag": "行业政策", "title": "美国、土耳其相继加征关税，跨境卖家成本压力骤增", "desc": "美国、土耳其对多国商品加征关税，出口电商面临新一轮成本压力，需提前布局多平台分散风险。", "url": "https://www.jiemian.com/article/14129901.html", "source": "界面新闻", "for_outer": true, "is_new": false, "hour": "13", "score": 2}], "updated": "2026-03-25 13:40"}}}</script>
 <script>
 var SD=JSON.parse(document.getElementById("sd").textContent||"{}");
 function loadSnap(ds,hr){
